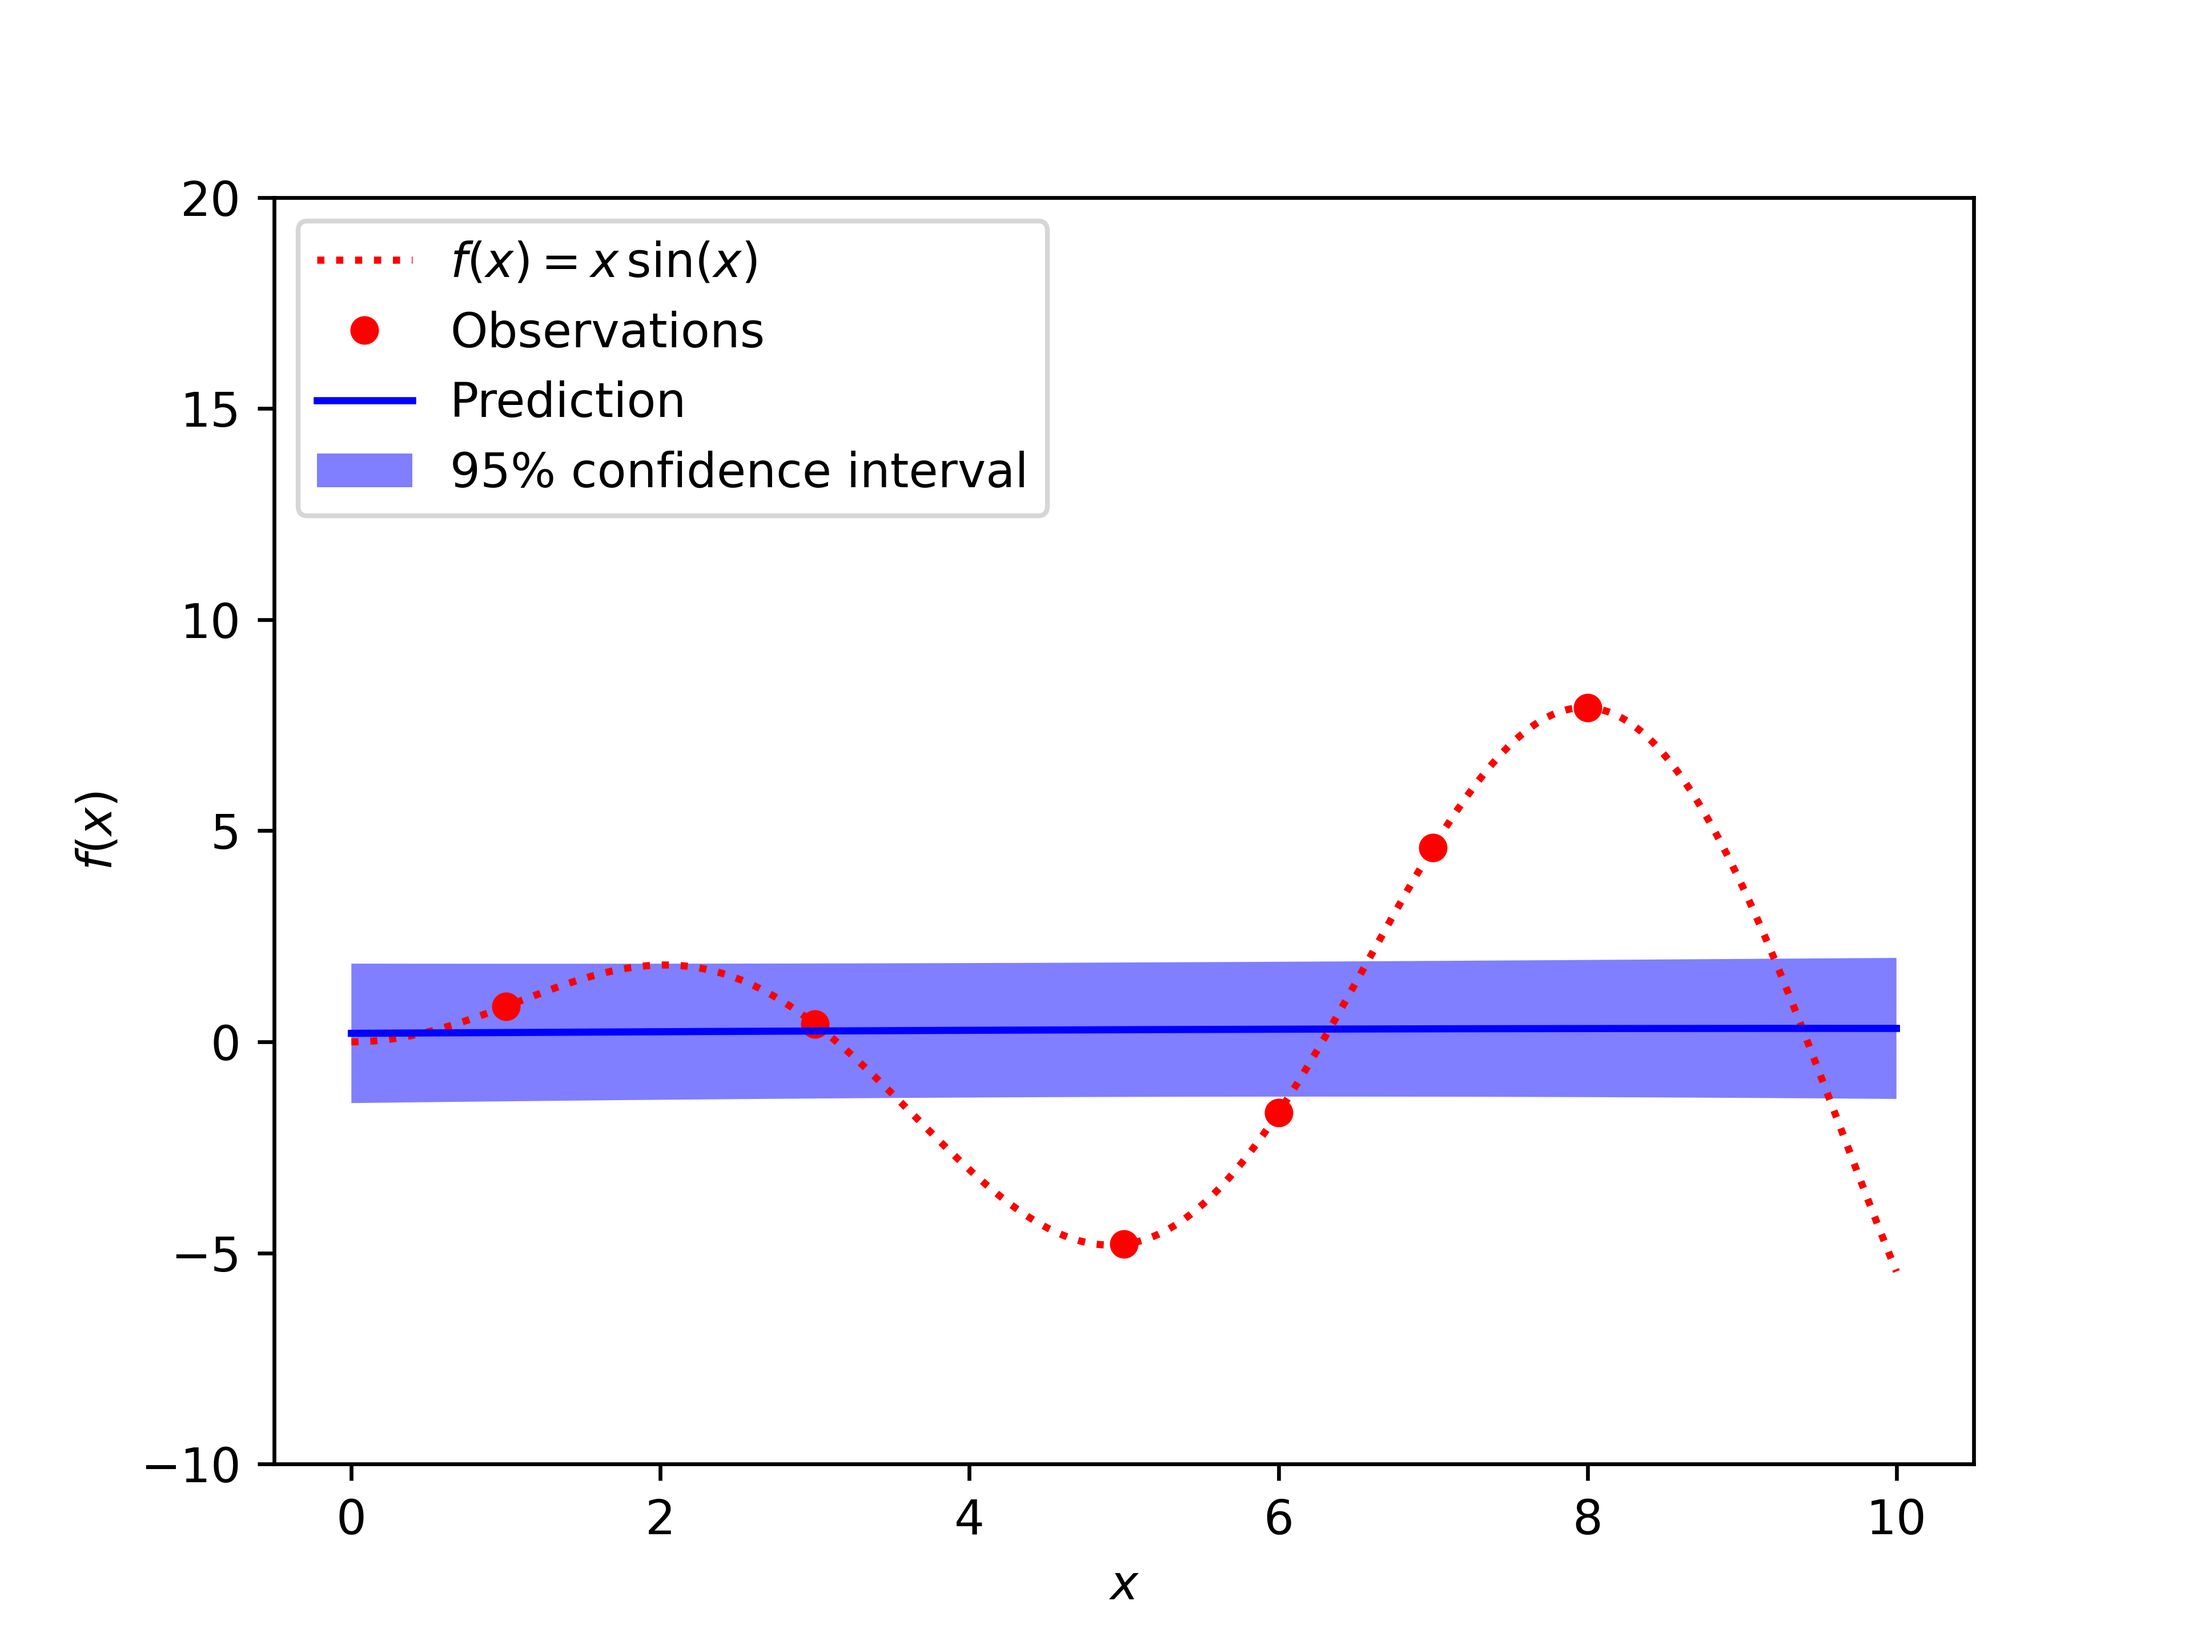
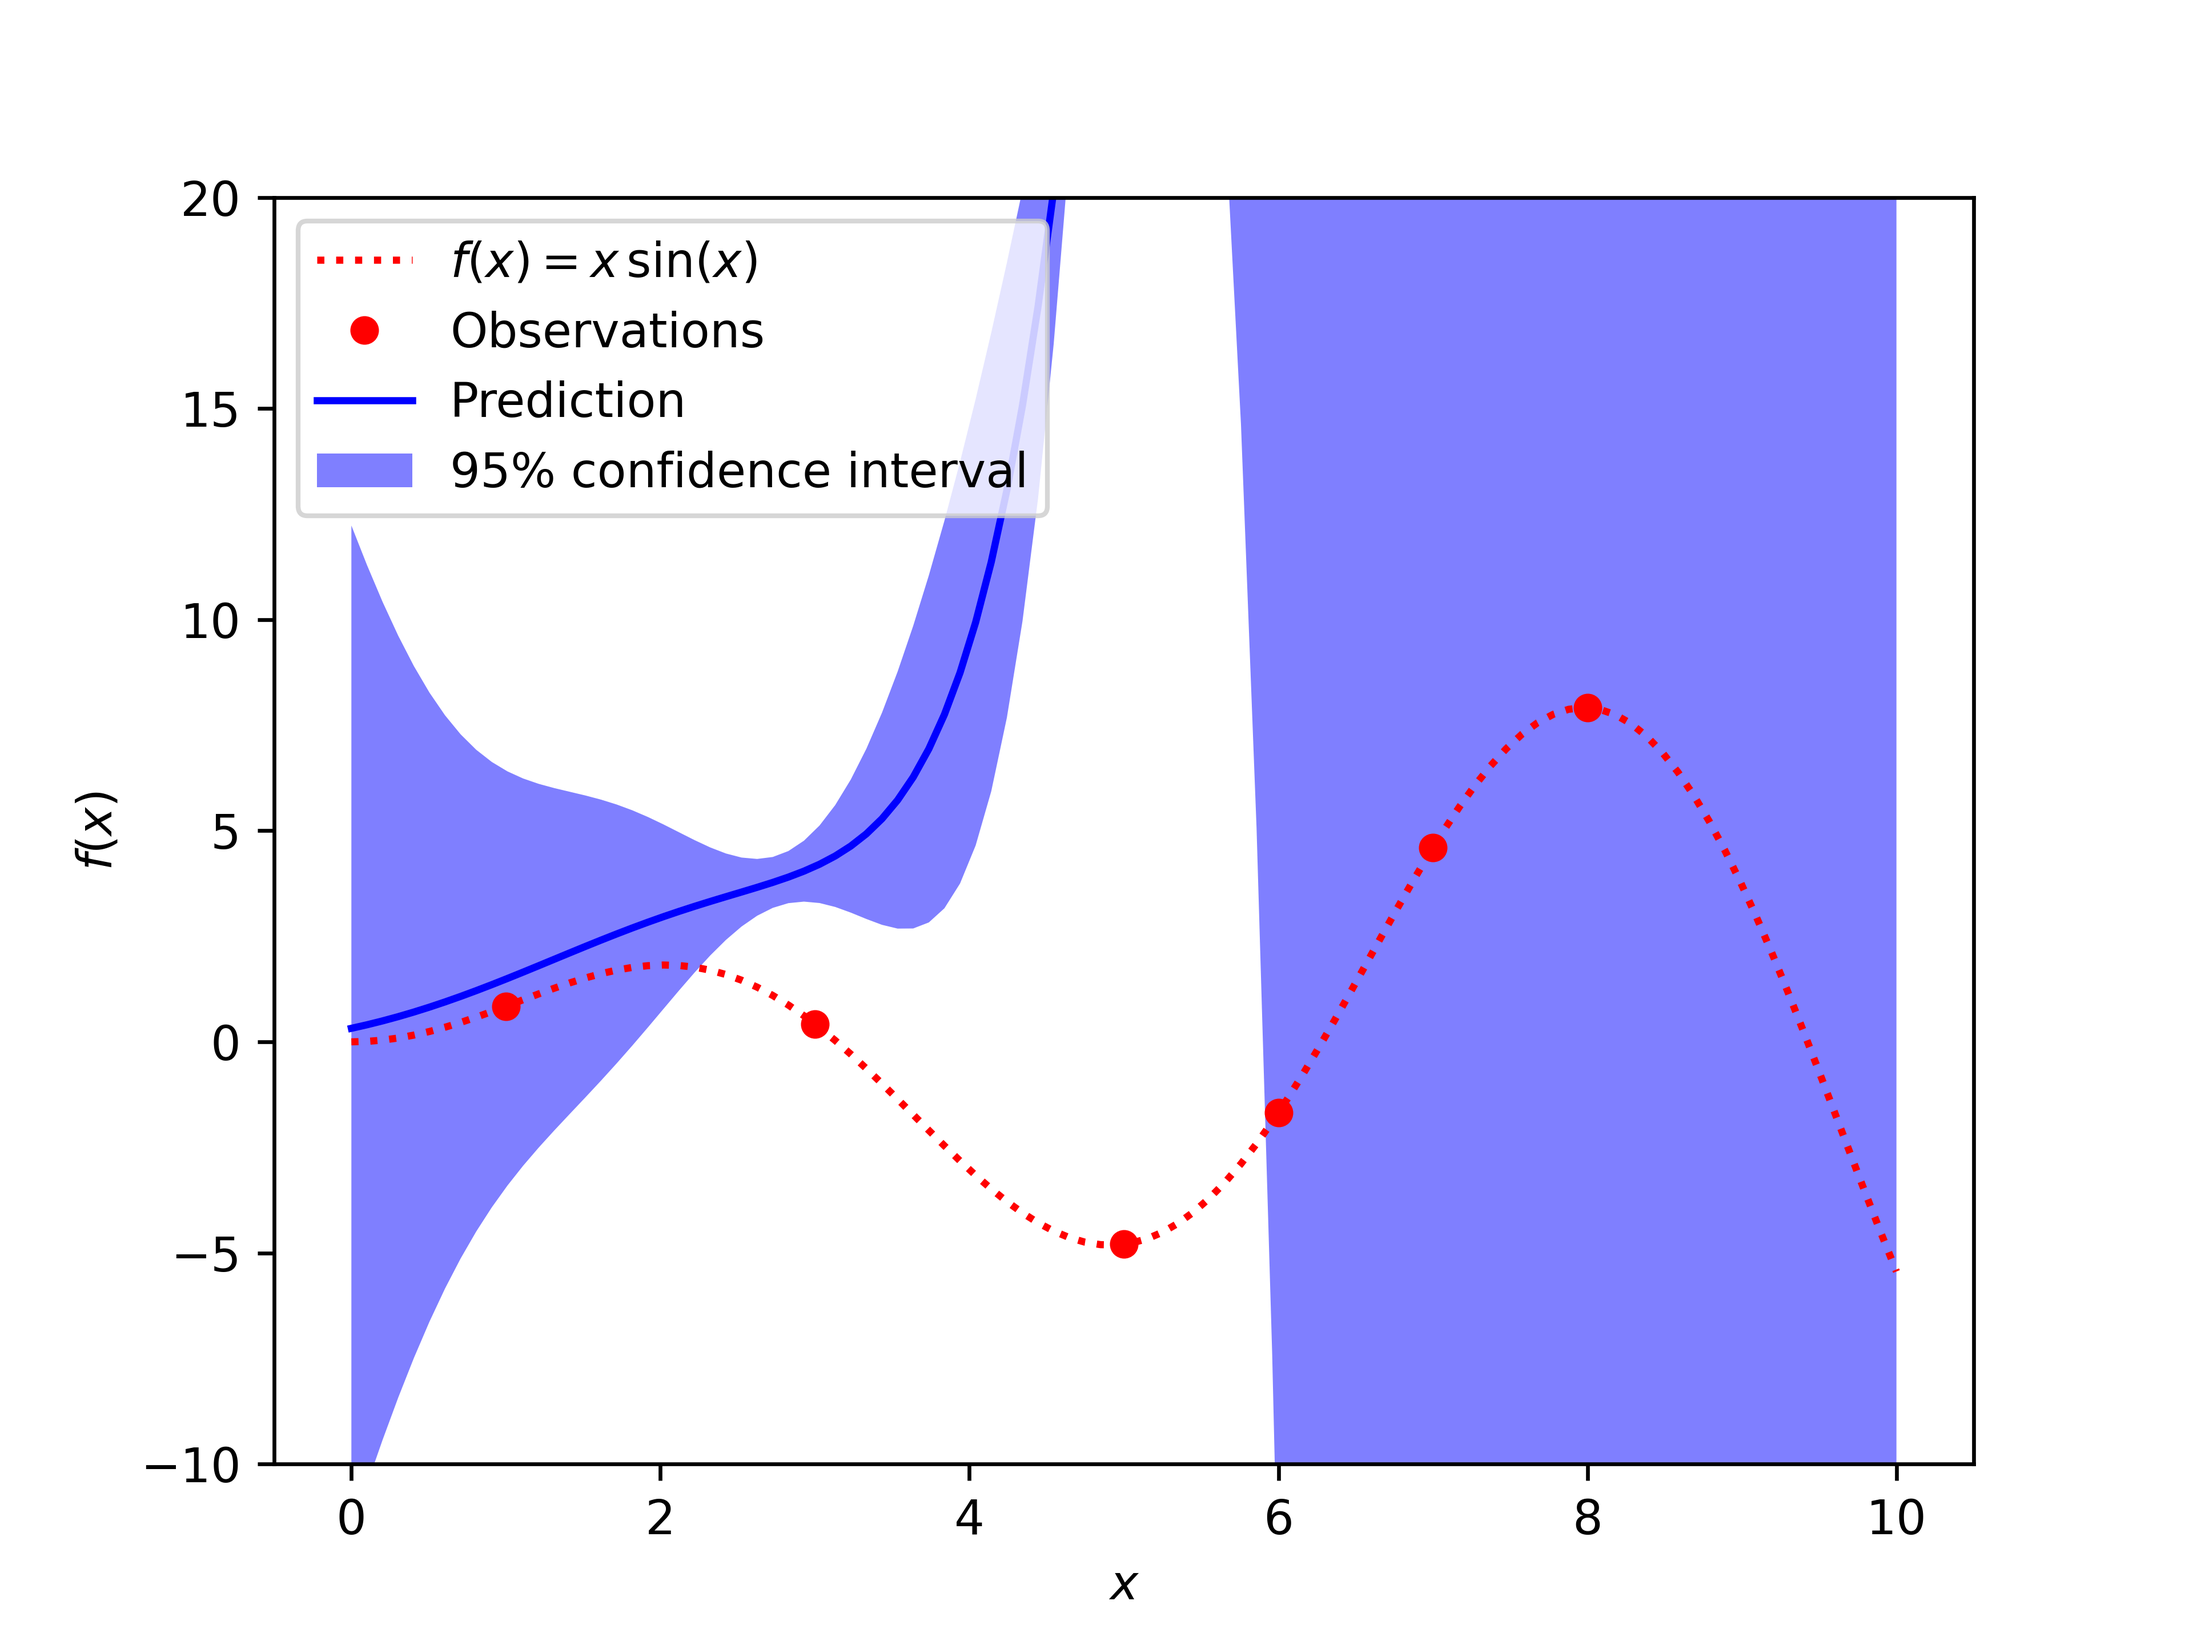
Fixed bugs; code now works when hyperparameters set to 'correct' values without any optimisation.

Changed region(s): [[0.1562, 0.0938, 0.875, 0.9062]]

diff --git a/oed_gp.py b/oed_gp.py
@@ -1,9 +1,11 @@
 import jax
-import jax.numpy as jnp
+import numpy as jnp
 import jax.scipy.linalg as jlinalg
 
 from math import pi
 
+from scipy.spatial.distance import pdist, cdist
+from scipy.linalg import cholesky, cho_solve
 from scipy.optimize import dual_annealing, shgo
 
 # y_train = (num_samples) - learning a single function!
@@ -19,37 +21,31 @@ class GP_Surrogate:
         self.y_train = y_train
 
         # Vectorise covariance function:
-        cov_fun = jax.vmap(jax.vmap(cov, in_axes=(0,None,None), out_axes=0), in_axes=(None,0,None), out_axes=1)
-        self.cov_fun = lambda x_1, x_2, params : jnp.atleast_1d(cov_fun(x_1, x_2, params).squeeze())
-        
+        self.cov_fun = lambda x_1, x_2, params : cdist(x_1, x_2, lambda x, y, params=params : cov(x, y, params))
+
         # Create function which returns 'noisy' kernel if requested by user:
         if "noise" in constraints:
-            K_fun = lambda x_1, x_2, params : noisy_K(self.cov_fun, x_1, x_2, params)
+            K_fun = lambda x_1, x_2, params : noisy_K(self.cov_fun, x_1, x_2, params, noise_flag=True)
         # Otherwise, add jitter to diagonal of K for numerical stability:
         else:
-            K_fun = lambda x_1, x_2, params : jitter_K(self.cov_fun, x_1, x_2, params)
-            self.K_fun = K_fun
+            K_fun = lambda x_1, x_2, params : noisy_K(self.cov_fun, x_1, x_2, params)
+        self.K_fun = K_fun
 
         # Optimise hyperparameters of covariance function:    
         self.params = opt_hyperparams(x_train, y_train, K_fun, constraints)
 
         # With optimal hyperparameters, compute covariance matrix and inverse covariance matrix:
-        self.cov = K_fun(x_train, x_train, self.params)
-        self.L = jnp.linalg.cholesky(self.cov)
-        self.alpha = jnp.linalg.lstsq((self.L).T, jnp.linalg.lstsq(self.L,y_train)[0])[0]
-
-        # Store vectorised prediction function:
-        self.pred_fun = jax.vmap(pred_fun_temp, in_axes=(None, 0))
+        train_cov = K_fun(x_train, x_train, self.params)
+        self.L = cholesky(train_cov)
+        self.alpha = jnp.linalg.lstsq((self.L).T, jnp.linalg.lstsq(self.L, y_train, rcond=None)[0], rcond=None)[0]
 
     def predict(self, x_new):
-        return self.pred_fun(self, x_new)
-
-def pred_fun_temp(obj, x_new):
-    k = obj.cov_fun(x_new, obj.x_train, obj.params)
-    mean = jnp.dot(k,obj.alpha)
-    v = jnp.linalg.lstsq(obj.L, k)[0]
-    var = obj.cov_fun(x_new, x_new, obj.params) - jnp.dot(v.T, v)
-    return (mean, var)
+        x_new = jnp.atleast_2d(x_new)
+        k = self.cov_fun(self.x_train, x_new, self.params)
+        mean = k.T @ self.alpha 
+        v = jnp.linalg.lstsq(self.L, k, rcond=None)[0]
+        var = jnp.diag(self.cov_fun(x_new, x_new, self.params)) -  jnp.sum(v*v, axis=0, keepdims=True)
+        return (mean, var.T)
 
 # Calls Scipy Optimise function to tune hyperparameters:
 def opt_hyperparams(x_train, y_train, K_fun, constraints):
@@ -66,7 +62,7 @@ def loss(params, x_train, y_train, K_fun, idx_2_key):
     K = K_fun(x_train, x_train, params)
     # Cholesky decomposition:
     L = jnp.linalg.cholesky(K)
-    alpha = jnp.linalg.lstsq(L.T, jnp.linalg.lstsq(L,y_train)[0])[0]
+    alpha = jnp.linalg.lstsq(L.T, jnp.linalg.lstsq(L,y_train,rcond=None)[0],rcond=None)[0]
     n = y_train.shape[0]
     loss  = 0.5*jnp.dot(y_train.T, alpha) + jnp.sum(jnp.log(jnp.diag(L))) + 0.5*n*jnp.log(2*pi)
     return loss.ravel()
@@ -100,15 +96,12 @@ def create_bounds(constraints):
     bounds = list(zip(lb, ub))
     return (bounds, idx_2_key)
 
-def noisy_K(cov_fun, x_1, x_2, params):
-    jitter = 10**(-8)
+def noisy_K(cov_fun, x_1, x_2, params, noise_flag=False):
+    jitter = 10**(-10)
     K = cov_fun(x_1, x_2, params)
-    return K + (params["noise"] + jitter)*jnp.identity(K.shape[0])
-
-def jitter_K(cov_fun, x_1, x_2, params):
-    jitter = 10**(-8)
-    K = cov_fun(x_1, x_2, params)
-    return K + jitter*jnp.identity(K.shape[0])
+    K[jnp.diag_indices_from(K)] += jitter
+    if noise_flag: K[jnp.diag_indices_from(K)] += params["noise"] 
+    return K
 
 #def noisy_K_grad(cov_grad_fun, x_1, x_2, params):
     #cov_grad = cov_grad_fun(x_1, x_2, params)

diff --git a/sklearn_example.py b/sklearn_example.py
@@ -1,10 +1,12 @@
-import jax.numpy as jnp
+import numpy as jnp
 
 import oed_gp
 
 import random 
 
 from matplotlib import pyplot as plt
+
+from scipy.linalg import cholesky, cho_solve
 
 random.seed(1)
 
@@ -21,24 +23,22 @@ if __name__ == "__main__":
     # Observations:
     y = (f(X).ravel())
     y = y.reshape(len(y),1)
-    x_pred =  jnp.atleast_2d(jnp.linspace(0, 10, 1000)).T
+    x_pred =  jnp.atleast_2d(jnp.linspace(0, 10, 100)).T
     constraints = {"const": {">": 10**(-3)}, "length": {">": 10**(-3)}}
     surrogate = oed_gp.GP_Surrogate(kernel, X, y, constraints)
-    surrogate.params = {"length":10, "const":1}
-    print(jnp.linalg.cholesky(surrogate.K_fun(X, X, surrogate.params)))
-    # y_pred = surrogate.predict(x_pred)
-    
+    y_pred = surrogate.predict(x_pred)
+
     # Plotting: 
-    #fig = plt.figure()
-    #plt.plot(x_pred, f(x_pred), 'r:', label=r'$f(x) = x\,\sin(x)$')
-    #plt.plot(X, y, 'r.', markersize=10, label='Observations')
-    #plt.plot(x_pred, y_pred[0], 'b-', label='Prediction')
-    # plt.fill(jnp.concatenate([x_pred, x_pred[::-1]]),
-    #      jnp.concatenate([y_pred[0] - 1.9600 * y_pred[1],
-    #                     (y_pred[0] + 1.9600 * y_pred[1])[::-1]]),
-    #      alpha=.5, fc='b', ec='None', label='95% confidence interval')
-    # plt.xlabel('$x$')
-    # plt.ylabel('$f(x)$')
-    # plt.ylim(-10, 20)
-    # plt.legend(loc='upper left')
-    # plt.savefig('GP.png', dpi=600)
+    fig = plt.figure()
+    plt.plot(x_pred, f(x_pred), 'r:', label=r'$f(x) = x\,\sin(x)$')
+    plt.plot(X, y, 'r.', markersize=10, label='Observations')
+    plt.plot(x_pred, y_pred[0], 'b-', label='Prediction')
+    plt.fill(jnp.concatenate([x_pred, x_pred[::-1]]),
+         jnp.concatenate([y_pred[0] - 1.9600 * y_pred[1],
+                        (y_pred[0] + 1.9600 * y_pred[1])[::-1]]),
+         alpha=.5, fc='b', ec='None', label='95% confidence interval')
+    plt.xlabel('$x$')
+    plt.ylabel('$f(x)$')
+    plt.ylim(-10, 20)
+    plt.legend(loc='upper left')
+    plt.savefig('GP.png', dpi=600)
